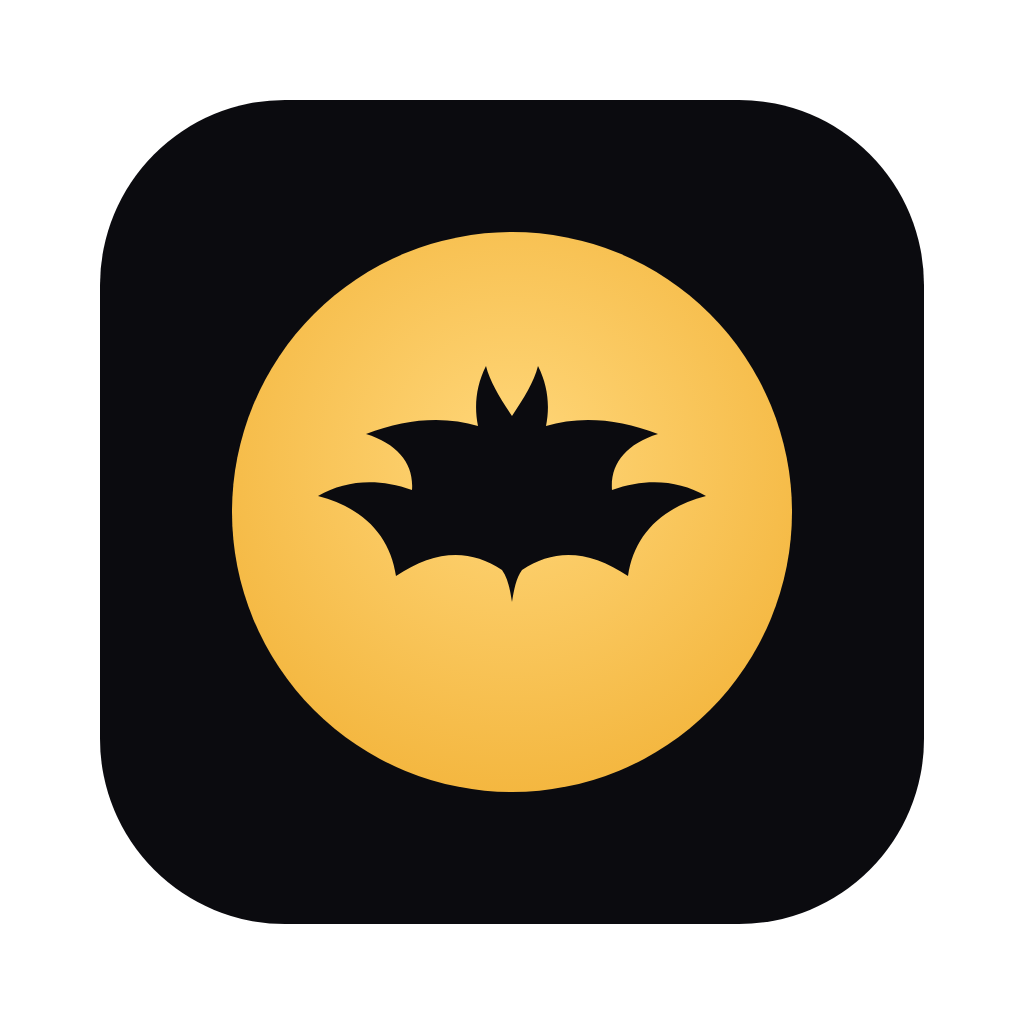
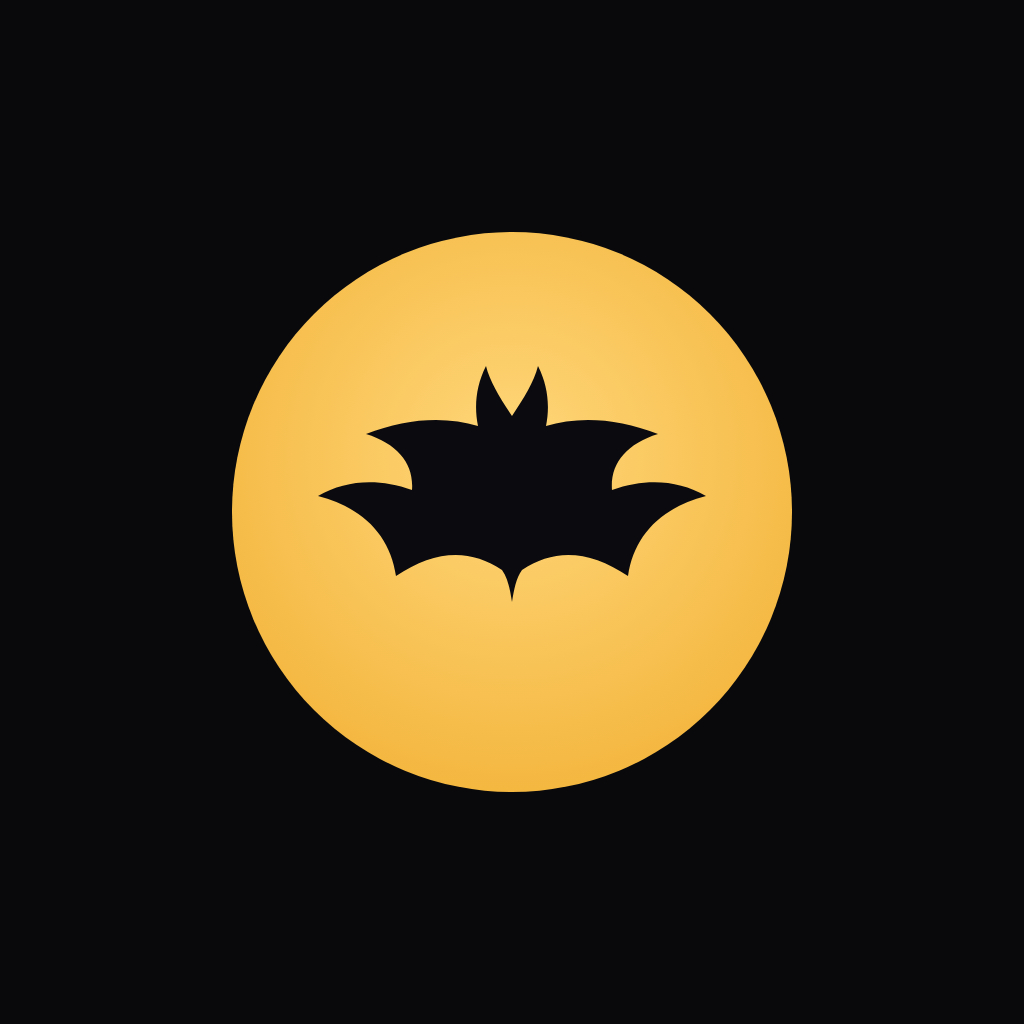
Prepare the Play Store release
- Decisions D77-D82: personal developer account with the required closed
  test, a separate demo server for Play review, privacy policy, Play App
  Signing with the existing key, English store listing, AAB uploads.
- Privacy policy (docs/privacy.md), for GitHub Pages.
- The installers workflow also builds an AAB (play-bundle artifact, not
  attached to GitHub releases).
- Store listing texts, Play icon and feature graphic in
  apps/mobile/store/en-US; app icons redrawn from the logo with
  scripts/store-graphics.mjs (pnpm --filter @batvision/mobile graphics).

diff --git a/docs/decisions.md b/docs/decisions.md
@@ -80,3 +80,9 @@ Decisions made during the scoping session of 2026-11-11. Each one lists what was
 | D74 | Cancelling a download                | Cancel (or Delete once done) stops the transfer, deletes the files and removes every source asking for the item: manual, subscription, watchlist      | Per-device exclusion list                                               | No new table; a confirmation says what goes, watchlist included                           |
 | D75 | Sort direction                       | Each sort has a natural direction (title A-Z, others newest or best first), reversible; items without a year or rating stay last                      | Fixed directions                                                        | Explicit request; missing values never lead the list                                      |
 | D76 | Top-rated movies on the home page    | 20 movies with the best TMDB rating and at least 50 votes, watched ones included, with a link to the movies sorted by rating                          | The 5-vote floor of D59                                                 | A handful of votes lets obscure titles in at 9+                                           |
+| D77 | Play Store account                   | Personal developer account: a closed test with at least 12 testers for 14 days comes before any production release                                    | Organization account (D-U-N-S number)                                   | Already created; the test runs while the rest is prepared                                 |
+| D78 | Access for Play review               | A separate demo server on alfred with Blender's open movies (CC-BY) and a reviewer account; personal media never exposed                              | Reviewer account on the main server                                     | Google needs a working server; the real library must stay private                         |
+| D79 | Privacy policy                       | The developer collects nothing: data stays on the user's own server. Policy in the repository, published on GitHub Pages; Data safety: none           | Hosted on the batvision server                                          | Required by Play; nothing to collect                                                      |
+| D80 | Play app signing                     | Play App Signing with the existing release key, so GitHub APKs and Play builds share one signature and update each other                              | Key generated by Google                                                 | Users can switch channels without reinstalling                                            |
+| D81 | Store listing                        | English first; category Video Players & Editors; free in every country; screenshots from the emulator                                                 | French and English at once                                              | French comes once the listing is settled                                                  |
+| D82 | Play uploads                         | The release workflow builds an AAB; the first upload is manual (Play requires it), later ones go through the Play Developer API                       | Manual uploads every time                                               | Releases stay a tag push                                                                  |

diff --git a/docs/privacy.md b/docs/privacy.md
@@ -1,0 +1,34 @@
+# Privacy policy
+
+_Last updated: November 12, 2026_
+
+batvision is a client for a **self-hosted** media server: you (or someone you trust) run the batvision server, and the apps connect to it. The developer of batvision does not operate any server for you and does not receive your data.
+
+## What the developer collects
+
+**Nothing.** The batvision apps contain no analytics, no advertising, no crash reporting service and no tracking of any kind. The developer receives no personal data, usage data or device identifiers from the apps.
+
+## What the apps store and where it goes
+
+- **On your device:** the address of your batvision server, your device's sign-in token (encrypted with the Android keystore on Android, the system keychain on desktop), the movies and episodes you download, their pictures and subtitles, your playback positions and your download settings.
+- **To your own batvision server only:** your username, password and two-factor code when you sign in, your playback progress, and the downloads you request. This server is chosen and operated by you or your household; its administrator can see your account and viewing history there.
+- **To GitHub:** to tell you about new versions, the apps read the public list of batvision releases on `api.github.com`. Like any web request, it reveals your IP address to GitHub; nothing else is sent. See [GitHub's privacy statement](https://docs.github.com/site-policy/privacy-policies/github-general-privacy-statement).
+
+Movie and series information (titles, posters, ratings) is fetched by your server from [TMDB](https://www.themoviedb.org/), not by the apps.
+
+## Permissions (Android)
+
+- **Network access:** to reach your server.
+- **Notifications and foreground service:** to show the progress of a download while it runs in the background, with a Pause button.
+
+## Deleting your data
+
+Signing out removes the sign-in token from the device. Uninstalling the app removes everything it stored, downloads included. Your account and history on the server are managed by its administrator, from the batvision web interface.
+
+## Children
+
+batvision is not directed at children under 13 and does not knowingly collect their data.
+
+## Changes and contact
+
+Changes to this policy are published at this address and in the [batvision repository](https://github.com/leozero/batvision). Questions: [developer@leozero.fr](mailto:developer@leozero.fr).
